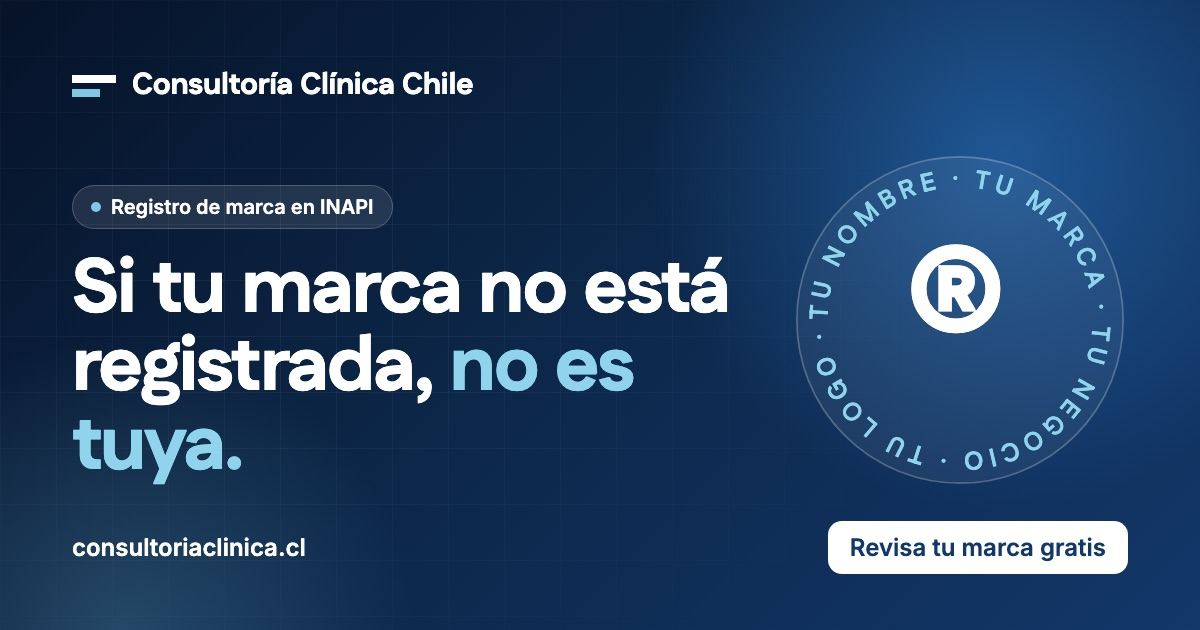
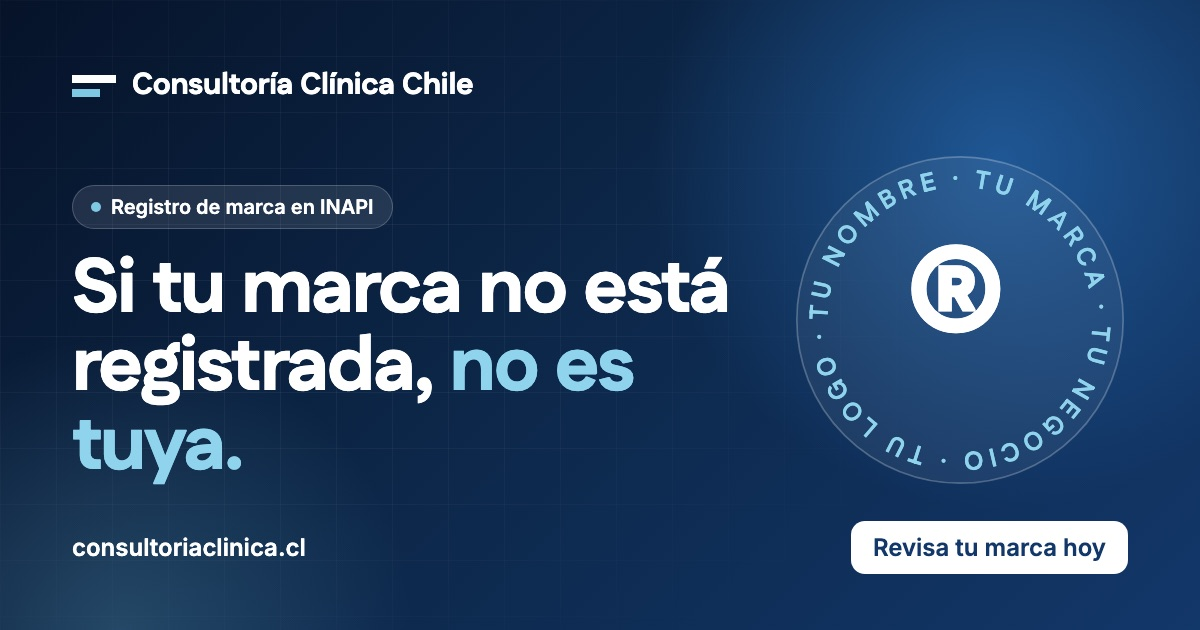
Imagen para compartir de marcas sin «gratis»

Changed region(s): [[0.6783, 0.8143, 0.925, 0.9048]]

diff --git a/scripts/generar_og.py b/scripts/generar_og.py
@@ -53,7 +53,7 @@ OG = {
     "og-marcas.jpg": {
         "sobre": "Registro de marca en INAPI",
         "titulo": "Si tu marca no está registrada, <b>no es tuya.</b>",
-        "cta": "Revisa tu marca gratis", "video": None, "sello": True,
+        "cta": "Revisa tu marca hoy", "video": None, "sello": True,
     },
 }
 
